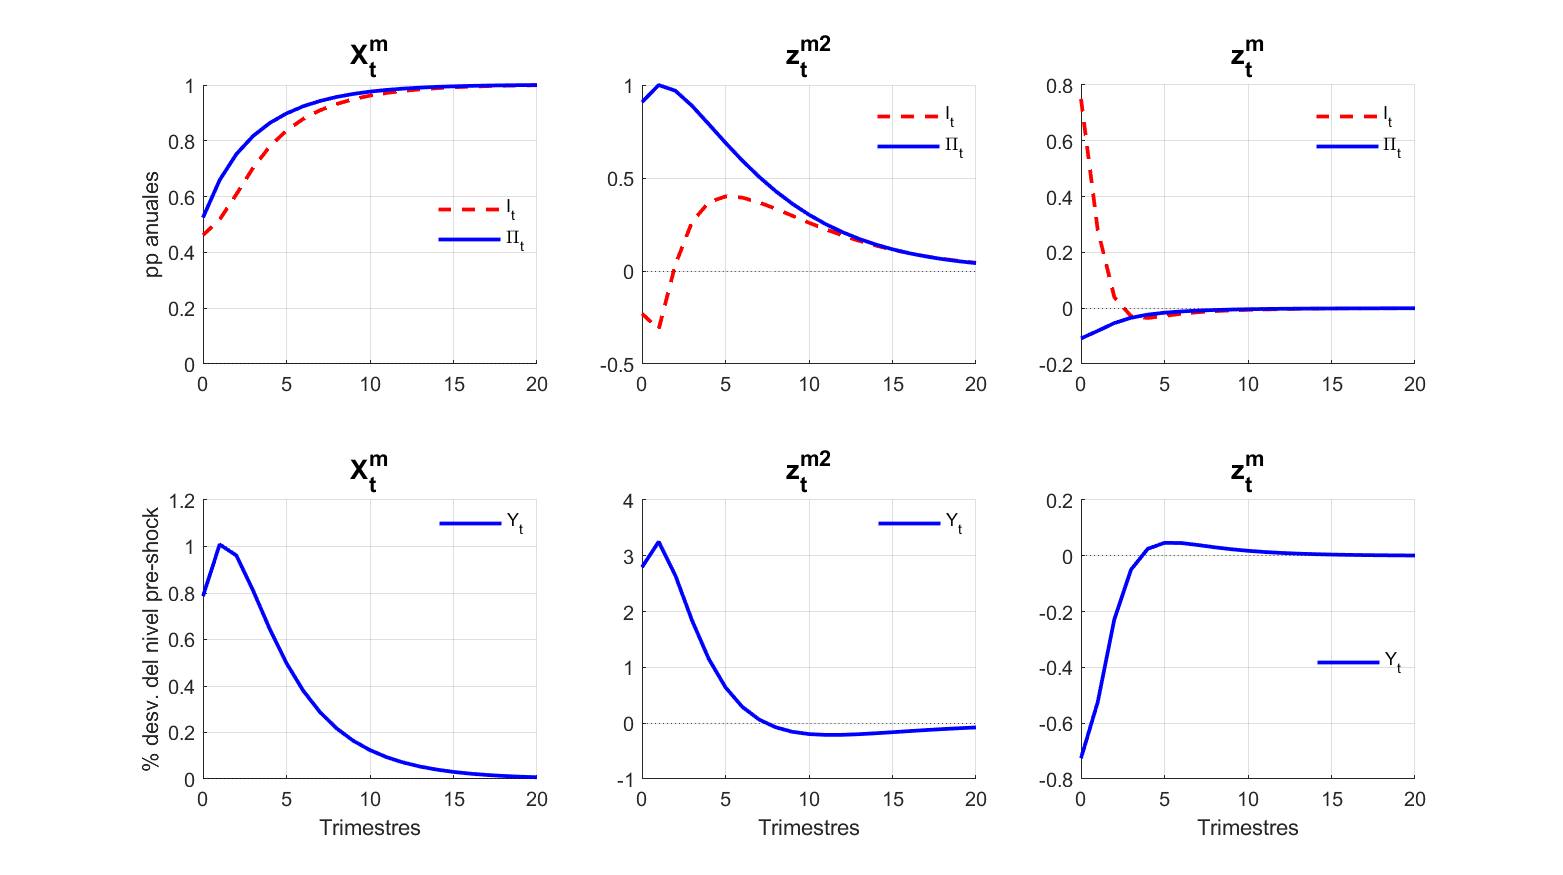
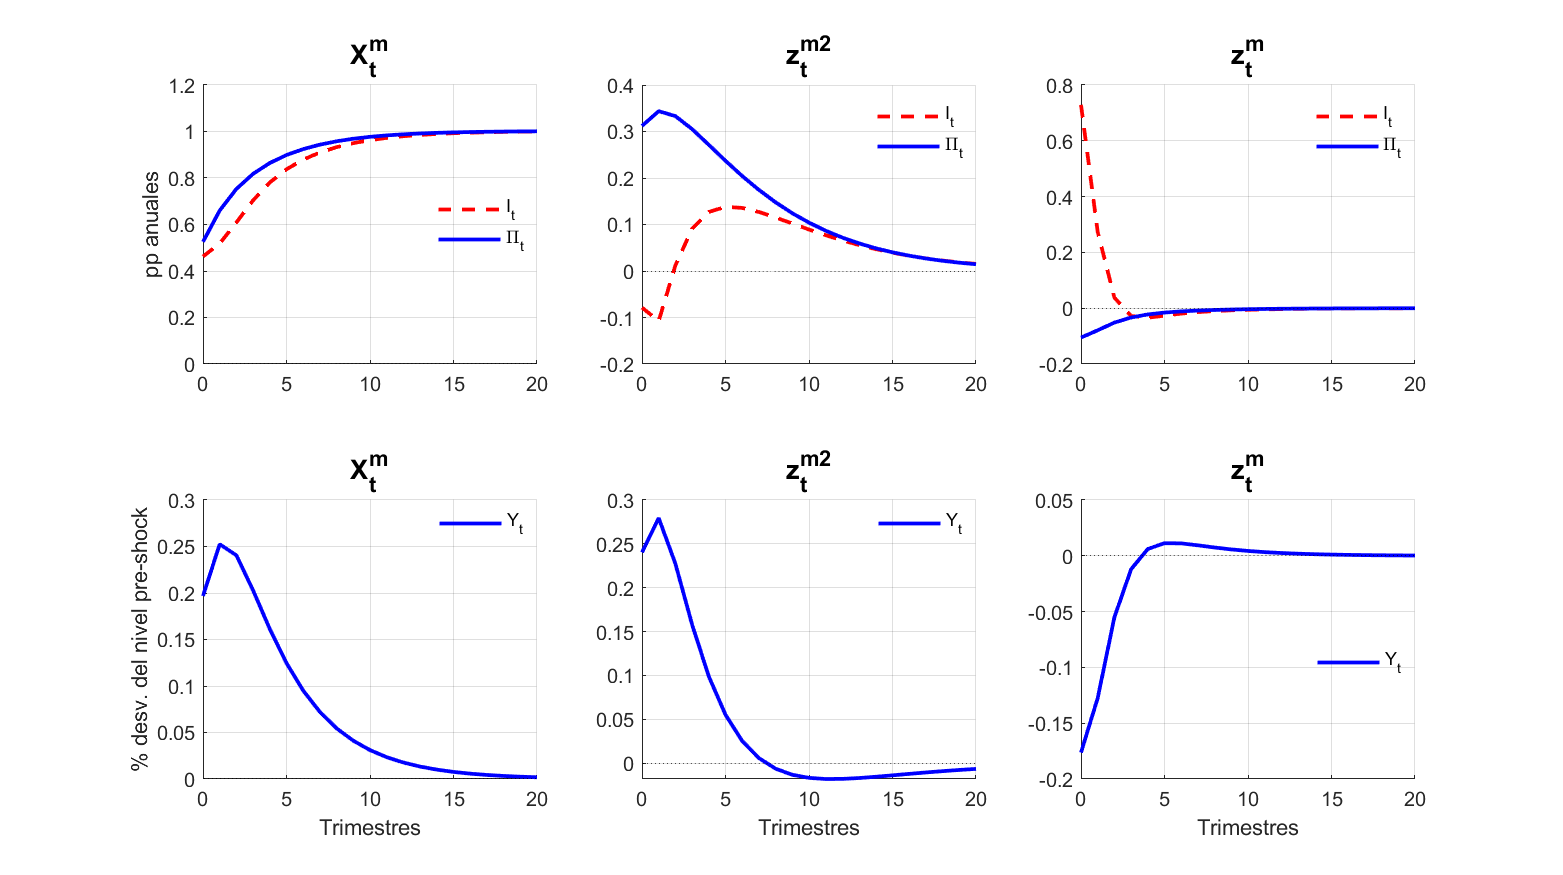
Correccion de unidades en graficos de IRFs (producto vs nominales) y normalizacion a la Uribe

diff --git a/figura11.m b/figura11.m
@@ -1,65 +1,45 @@
-% ========================================================
-%  Figura 11 — IRFs a los tres shocks monetarios
-%  Layout comparable a Uribe (2022), Figura 11
+% ============================================================
+%  Figura 11 — normalización igual a Uribe (ir_chain.m / nk_irfs.m)
 %  Correr DESPUÉS de: dynare uribereescaled
-% ========================================================
+% ============================================================
 
 H  = length(oo_.irfs.dpi_obs_e_gm);
 hh = 0:H-1;
-
 shocks  = {'e_gm', 'e_zm2', 'e_zm'};
 titulos = {'X_t^m', 'z_t^{m2}', 'z_t^m'};
 
-% --- Series en niveles acumulados ---
 PI = zeros(H,3); II = zeros(H,3); YY = zeros(H,3);
-
 for s = 1:3
     sh = shocks{s};
-    PI(:,s) = cumsum(oo_.irfs.(['dpi_obs_' sh])(1:H))';
-    II(:,s) = cumsum(oo_.irfs.(['di_obs_'  sh])(1:H))';
-    YY(:,s) = cumsum(oo_.irfs.(['dy_obs_'  sh])(1:H))';
+    PI(:,s) = 4*cumsum(oo_.irfs.(['dpi_obs_' sh])(1:H))';   % pp anuales
+    II(:,s) = 4*cumsum(oo_.irfs.(['di_obs_'  sh])(1:H))';   % pp anuales
+    YY(:,s) =   cumsum(oo_.irfs.(['dy_obs_'  sh])(1:H))';   % %
 end
 
-% --- Normalización ---
-% gm  : a 1 pp de aumento de largo plazo de la inflación
-% zm2 : a 1 pp de aumento máximo de la inflación
-% zm  : a 0.75 pp de salto inicial de la tasa nominal
-esc = [ 1/PI(end,1) , 1/max(PI(:,2)) , 0.75/II(1,3) ];
-
-fprintf('\nFactores de normalización:\n');
-fprintf('  %-6s : %.3f\n',   'gm',  esc(1));
-fprintf('  %-6s : %.3f\n',   'zm2', esc(2));
-fprintf('  %-6s : %.3f\n\n', 'zm',  esc(3));
-
-for s = 1:3
-    PI(:,s) = PI(:,s)*esc(s);
-    II(:,s) = II(:,s)*esc(s);
-    YY(:,s) = YY(:,s)*esc(s);
+% Normalización de Uribe
+esc = zeros(1,3);
+esc(1) = 1/II(end,1);                       % X^m: tasa +1 pp anual en el largo plazo
+for s = 2:3                                  % z^m2, z^m: innovación de 1 pp anual
+    idx    = strmatch(shocks{s}, M_.exo_names, 'exact');
+    esc(s) = 0.25 / sqrt(M_.Sigma_e(idx,idx)); % 0.25 = 1 pp anual en unidades trimestrales
 end
+PI = PI.*esc;  II = II.*esc;  YY = YY.*esc;
 
-% --- Gráfico ---
 figure('Position',[80 80 1000 560],'Color','w');
-
 for s = 1:3
-    % Fila 1: inflación y tasa nominal
     subplot(2,3,s);
     plot(hh, II(:,s), 'r--', 'LineWidth', 1.8); hold on;
-    plot(hh, PI(:,s), 'b-',  'LineWidth', 1.8);
-    yline(0,'k:');
-    title(titulos{s}, 'FontSize', 13, 'Interpreter','tex');
-    legend({'I_t','\Pi_t'}, 'Location','best', 'Box','off', 'Interpreter','tex');
+    plot(hh, PI(:,s), 'b-',  'LineWidth', 1.8); yline(0,'k:');
+    title(titulos{s},'FontSize',13,'Interpreter','tex');
+    legend({'I_t','\Pi_t'},'Location','best','Box','off','Interpreter','tex');
     grid on; box off; xlim([0 H-1]);
     if s==1, ylabel('pp anuales'); end
 
-    % Fila 2: producto
     subplot(2,3,3+s);
-    plot(hh, YY(:,s), 'b-', 'LineWidth', 1.8); hold on;
-    yline(0,'k:');
-    title(titulos{s}, 'FontSize', 13, 'Interpreter','tex');
-    legend({'Y_t'}, 'Location','best', 'Box','off', 'Interpreter','tex');
-    grid on; box off; xlim([0 H-1]);
-    xlabel('Trimestres');
+    plot(hh, YY(:,s), 'b-', 'LineWidth', 1.8); hold on; yline(0,'k:');
+    title(titulos{s},'FontSize',13,'Interpreter','tex');
+    legend({'Y_t'},'Location','best','Box','off','Interpreter','tex');
+    grid on; box off; xlim([0 H-1]); xlabel('Trimestres');
     if s==1, ylabel('% desv. del nivel pre-shock'); end
 end
-
-saveas(gcf, 'figura11_replicacion.png');
+saveas(gcf,'figura11_replicacion.png');

diff --git a/irfs_AB.m b/irfs_AB.m
@@ -7,15 +7,16 @@ H  = length(irf_mc5.dpi_obs_e_gm);
 hh = 0:H-1;
 
 % A: shock permanente e_gm ; B: shock transitorio persistente e_zm2
-YA  = cumsum(irf_mc5.dy_obs_e_gm(1:H));
-PIA = cumsum(irf_mc5.dpi_obs_e_gm(1:H));
-IA  = cumsum(irf_mc5.di_obs_e_gm(1:H));
-RA  = irf_mc5.r_obs_e_gm(1:H);
+% producto en %, nominales anualizadas (x4)
+YA  =   cumsum(irf_mc5.dy_obs_e_gm(1:H));
+PIA = 4*cumsum(irf_mc5.dpi_obs_e_gm(1:H));
+IA  = 4*cumsum(irf_mc5.di_obs_e_gm(1:H));
+RA  = 4*irf_mc5.r_obs_e_gm(1:H);
 
-YB  = cumsum(irf_B.dy_obs_e_zm2(1:H));
-PIB = cumsum(irf_B.dpi_obs_e_zm2(1:H));
-IB  = cumsum(irf_B.di_obs_e_zm2(1:H));
-RB  = irf_B.r_obs_e_zm2(1:H);
+YB  =   cumsum(irf_B.dy_obs_e_zm2(1:H));
+PIB = 4*cumsum(irf_B.dpi_obs_e_zm2(1:H));
+IB  = 4*cumsum(irf_B.di_obs_e_zm2(1:H));
+RB  = 4*irf_B.r_obs_e_zm2(1:H);
 
 % Normalizar a 1 pp de aumento de la inflación en el horizonte final
 escA = 1/PIA(end);

diff --git a/irfs_tres.m b/irfs_tres.m
@@ -23,11 +23,11 @@ for s = 1:2
     sh = shocks{s};
     for p = 1:3
         I = irfs{p};
-        % niveles acumulados
-        Y  = cumsum(I.(['dy_obs_'  sh])(1:H));
-        PI = cumsum(I.(['dpi_obs_' sh])(1:H));
-        II = cumsum(I.(['di_obs_'  sh])(1:H));
-        R  = I.(['r_obs_' sh])(1:H);
+        % producto en %, nominales anualizadas (x4)
+        Y  =   cumsum(I.(['dy_obs_'  sh])(1:H));
+        PI = 4*cumsum(I.(['dpi_obs_' sh])(1:H));
+        II = 4*cumsum(I.(['di_obs_'  sh])(1:H));
+        R  = 4*I.(['r_obs_' sh])(1:H);
 
         datos = {Y, PI, II, R};
         for v = 1:4
